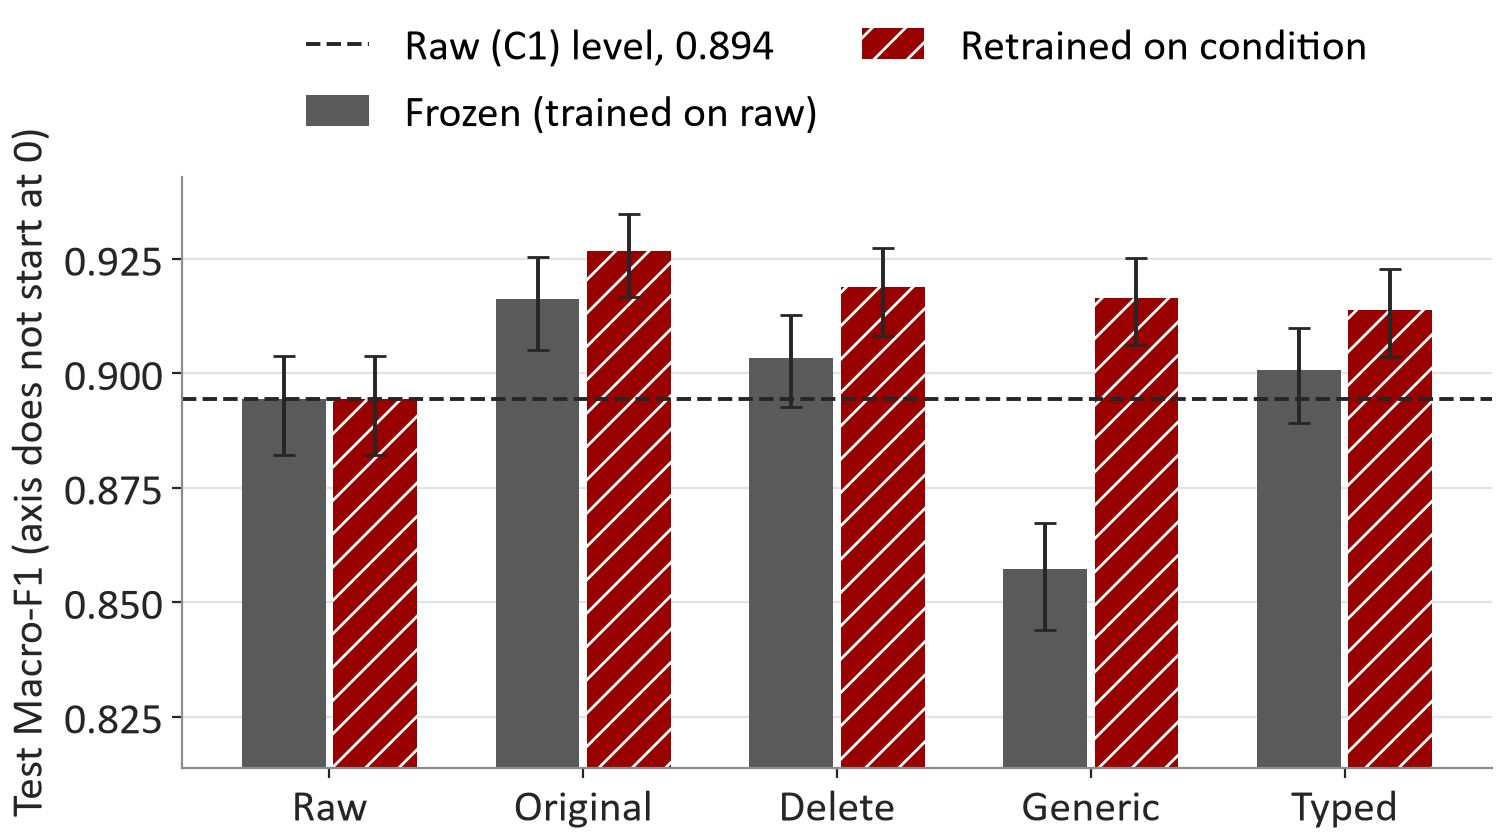
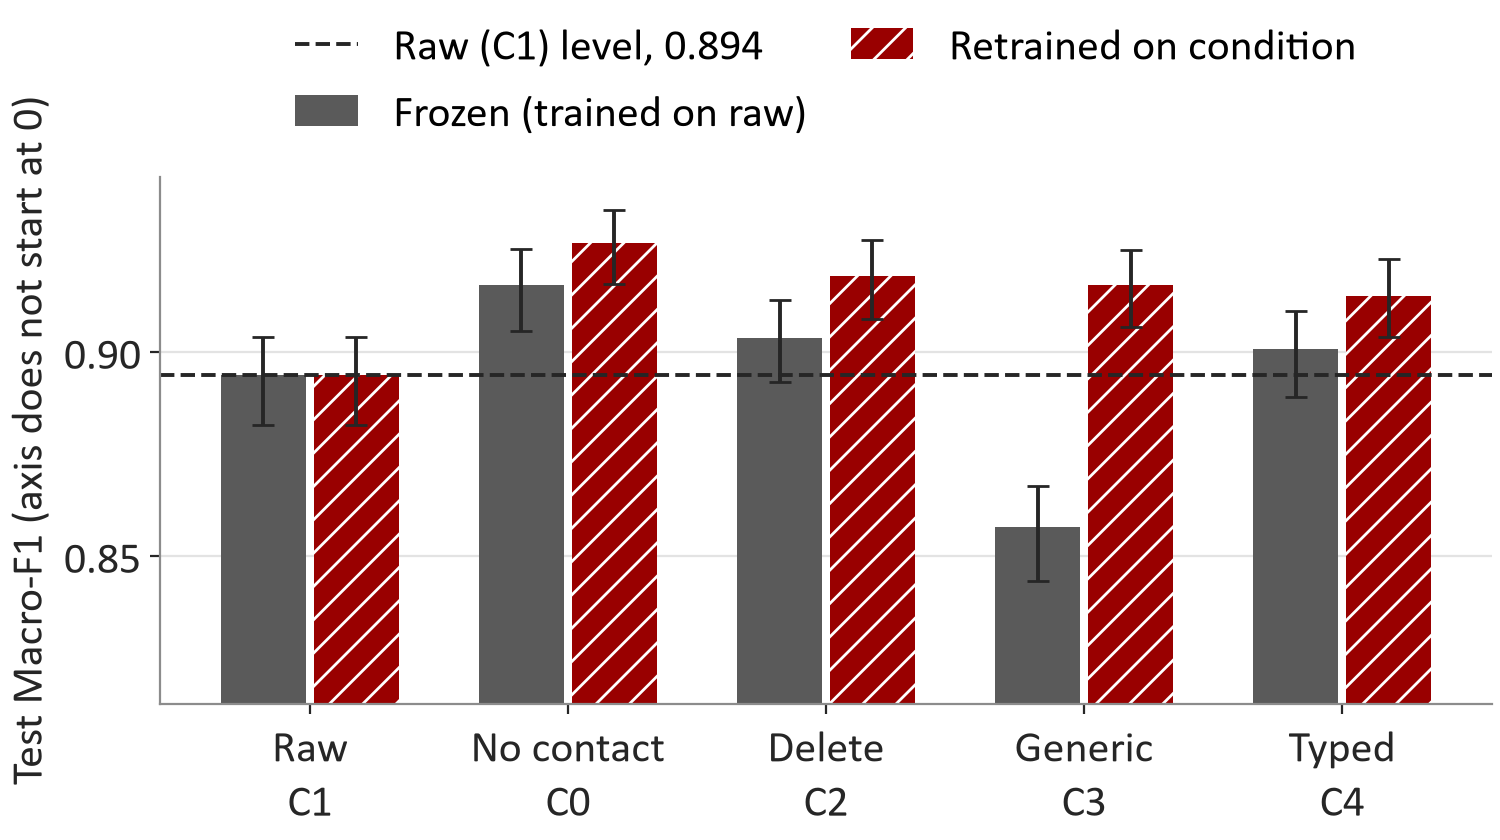
Update M3 results after final review
README reproduction steps and M2 context; evidence crosswalk formulas and fixed values; deck numbers from displayed values, per-stage wall times; Figure 5 condition labels.

diff --git a/m3/analysis/numbers.py b/m3/analysis/numbers.py
@@ -89,6 +89,9 @@ def splits_and_data():
     tl = list(csv.DictReader(open(RESULTS / "data" / "token_lengths.csv", encoding="utf-8")))
     mx = max(float(r["p99_9"]) for r in tl if r["tokenizer"] == "distilbert-base-uncased" and r["part"] == "train+val")
     put("tokens_p999_max", mx, f"{mx:.0f}", "results/m3/data/token_lengths.csv", "largest p99.9 token count over conditions")
+    over = max(int(r["over_96"]) for r in tl if r["tokenizer"] == "distilbert-base-uncased" and r["part"] == "train+val")
+    cnt("trainval_over_maxlen", over, "results/m3/data/token_lengths.csv:over_96",
+        "most train+val inputs above max_len in any one condition")
     tmax = max(int(r["max"]) for r in tl if r["tokenizer"] == "distilbert-base-uncased")
     cnt("tokens_max", tmax, "results/m3/data/token_lengths.csv", "longest input in tokens, any condition/split")
     ch = read_jsonl(DATA_M3 / "challenge_set.jsonl")
@@ -185,12 +188,19 @@ def models():
             dpp("t1_last_epoch_gain", float(curve[-1]["val_macro_f1"]) - float(curve[-2]["val_macro_f1"]),
                 f"results/m3/runs/{d.name}/train_curve.csv", "val Macro-F1 gain in the last epoch")
     for k, other in (("gap_b2_b1", "e1_b1_macro_f1"), ("gap_b2_t1", "e1_t1_macro_f1")):
-        g = N["e1_b2_macro_f1"]["value"] - N[other]["value"]
+        g = round(N["e1_b2_macro_f1"]["value"], 3) - round(N[other]["value"], 3)  # matches the 3-decimal values shown
         put(k, g, f"{abs(g) * 100:.1f} pp", f"derived: e1_b2_macro_f1 - {other}", "unsigned gap in validation Macro-F1")
     put("speedup_b1_vs_b2", N["e1_b2_ms"]["value"] / N["e1_b1_ms"]["value"],
         f"{N['e1_b2_ms']['value'] / N['e1_b1_ms']['value']:.0f}x", "derived: median ms b2 / b1")
     put("frozen_C", fz["model"].get("params", {}).get("C"), str(fz["model"].get("params", {}).get("C")), "configs/frozen_model.yaml")
     put("b1_params_C", fz["cross_check_model"]["params"]["C"], str(fz["cross_check_model"]["params"]["C"]), "configs/frozen_model.yaml")
+    walls = {}
+    for d in (RESULTS / "runs").glob("*/manifest.json"):
+        man = read_json(d)
+        st = {"e2a": "e2", "e2b": "e2", "e2c": "e4", "e2d": "e4", "e3c": "e3"}.get(man["stage"], man["stage"])
+        walls[st] = walls.get(st, 0) + man["wall_seconds"]
+    for st, w in sorted(walls.items()):
+        put(f"wall_{st}", w, f"{w / 60:.1f} min", "results/m3/runs/*/manifest.json:wall_seconds", "summed wall time per stage")
     log = list(csv.DictReader(open(RESULTS / "test_eval_log.csv", encoding="utf-8")))
     cnt("n_test_evals", sum(1 for r in log if r["run_id"] != "FROZEN_CONFIG_REGISTERED"), "results/m3/test_eval_log.csv")
     cnt("n_runs", len(list((RESULTS / "runs").glob("*/metrics.json"))), "results/m3/runs/*/metrics.json")

diff --git a/m3/analysis/figures.py b/m3/analysis/figures.py
@@ -91,7 +91,7 @@ def fig_main_results():
     allv = [float(r["macro_f1_ci_low"]) for r in rows.values() if r["protocol"] in ("frozen", "retrained")
             and r["condition"] in conds]
     ax.set_ylim(max(0, min(allv) - 0.03), min(1.0, max(float(r["macro_f1_ci_high"]) for r in rows.values()) + 0.008))
-    ax.set_xticks(x, [COND[c] for c in conds])
+    ax.set_xticks(x, ["Raw\nC1", "No contact\nC0", "Delete\nC2", "Generic\nC3", "Typed\nC4"])
     ax.set_ylabel("Test Macro-F1 (axis does not start at 0)")
     ax.legend(loc="lower center", frameon=False, ncol=2, bbox_to_anchor=(0.5, 1.0), handlelength=1.4,
               columnspacing=1.0, fontsize=16)

diff --git a/docs/M3_EVIDENCE_CROSSWALK.md b/docs/M3_EVIDENCE_CROSSWALK.md
@@ -11,28 +11,45 @@ published figures from the cited papers (see `docs/M3_REFERENCES_VERIFIED.md`).
 | 4 | Motivation | best_method = generic; retrained_C3_f1 = 0.916; retrained_C1_f1 = 0.894; V2_test_leaks = 0; n_test = 3,080 | data/m3/splits.json<br>results/m3/analysis/analysis.json<br>results/m3/analysis/main_table.csv<br>results/m3/detector/final_V2.json |
 | 6 | Gap and Differentiator | n_condition_rows_modeled = 104,576; n_runs = 18; challenge_n = 376; challenge_formats = 39; challenge_neg = 64; V1_test_leaks = 8; V2_test_leaks = 0; V1_held_recall = 89.1%; V2_held_recall = 98.1% | data/m3/challenge_set.jsonl<br>data/m3/conditions.jsonl.gz<br>results/m3/detector/final_V1.json<br>results/m3/detector/final_V2.json<br>results/m3/runs/*/metrics.json |
 | 7 | Unified Data Summary | m2_source_rows = 13,083; m2_intents = 77; faker_version = 37.12.0; m2_injection_rows = 13,083; challenge_n = 376; n_challenge_dev = 188; n_challenge_heldout = 188; b77_train_bytes = 839,073; b77_train_sha_prefix = b06e26ac6755; b77_test_bytes = 239,961; b77_test_sha_prefix = d12d6e3bc4c3 | data/evidence_summary.json<br>data/m3/challenge_set.jsonl<br>data/profile.json<br>data/source_manifest.json |
-| 8 | Data Source A: BANKING77 Metadata and Collection | hash_example_id = B77_train_00000; hash_example_text = I am still waiting on my card?; b77ex_category = card_arrival; b77ex_acquired_date = 2026-10-03; b77ex_char_count = 30 | data/banking_records.jsonl<br>recomputed |
+| 8 | Data Source A: BANKING77 Metadata and Collection | hash_example_id = B77_train_00000; hash_example_text = I am still waiting on my card?; b77ex_category = card_arrival; b77ex_acquired_date = 2026-10-03; b77ex_char_count = 30 | data/banking_records.jsonl<br>recomputed: sha256(casefold(NFC + whitespace-normalized text)) |
 | 9 | Data Source B: Faker Ledger Metadata and Collection | m2ex_record_id = B77_train_00005; m2ex_pii_type = EMAIL; m2ex_pii_value = davisstephanie@example.com; m2ex_start_char = 46; m2ex_end_char = 72; m2ex_template_id = suffix; faker_version = 37.12.0; m2_type_PERSON = 3,235; m2_type_EMAIL = 3,161; m2_type_PHONE = 3,336; m2_type_ADDRESS = 3,351 | data/evidence_summary.json<br>data/profile.json |
 | 10 | Data Source C: Challenge Set Metadata and Collection | challenge_n = 376; chex_id = CH_0106; chex_subset = challenge_dev; chex_text_short = Reply to kofi+alerts@exa...; chex_type = EMAIL; chex_start = 9; chex_end = 32; chex_value = kofi+alerts@example.net; challenge_formats = 39; challenge_neg_groups = 8; chex_format_tag = plus_email | data/m3/challenge_set.jsonl |
-| 11 | Pre-processing Plan | excluded_rows = 11; m2_eligible_train_rows = 9,992; max_len = 96; tokens_p999_max = 88; test_truncated = 0; tokens_max = 117 | data/evidence_summary.json<br>data/profile.json<br>results/m3/data/max_len.json<br>results/m3/data/token_lengths.csv |
+| 11 | Pre-processing Plan | excluded_rows = 11; m2_eligible_train_rows = 9,992; max_len = 96; tokens_p999_max = 88; test_truncated = 0; tokens_max = 117; trainval_over_maxlen = 4 | data/evidence_summary.json<br>data/profile.json<br>results/m3/data/max_len.json<br>results/m3/data/token_lengths.csv |
 | 12 | Workflow v2: Diagram | detector_variant = V2; tau = 0.64 | results/m3/analysis/risk_coverage.json<br>results/m3/detector/selection.json |
 | 13 | Workflow v2: Explanation | V2_all_leaks = 0; m2_source_rows = 13,083; rc_cov_C1 = 77.0%; e2e_median_ms = 21.2 ms | data/evidence_summary.json<br>results/m3/analysis/risk_coverage.json<br>results/m3/detector/final_V2.json<br>results/m3/latency.json |
-| 14 | Model Selection | model_name = MiniLM embeddings + logistic regression; e1_b2_macro_f1 = 0.904; e1_b2_ms = 4.1 ms; test_truncated = 0; tokens_p999_max = 88; e1_b2_params = 22.7M; speedup_b1_vs_b2 = 11x; gap_b2_b1 = 2.5 pp; gap_b2_t1 = 15.4 pp; detector_variant = V2 | configs/frozen_model.yaml<br>derived<br>results/m3/data/max_len.json<br>results/m3/data/token_lengths.csv<br>results/m3/detector/selection.json<br>results/m3/latency.json<br>results/m3/runs/e1_minilm_clf_c1_s553/metrics.json |
+| 14 | Model Selection | model_name = MiniLM embeddings + logistic regression; e1_b2_macro_f1 = 0.904; e1_b2_ms = 4.1 ms; test_truncated = 0; tokens_p999_max = 88; e1_b2_params = 22.7M; speedup_b1_vs_b2 = 11x; gap_b2_b1 = 2.5 pp; gap_b2_t1 = 15.5 pp; detector_variant = V2 | configs/frozen_model.yaml<br>derived: e1_b2_macro_f1 - e1_b1_macro_f1<br>derived: e1_b2_macro_f1 - e1_t1_macro_f1<br>derived: median ms b2 / b1<br>results/m3/data/max_len.json<br>results/m3/data/token_lengths.csv<br>results/m3/detector/selection.json<br>results/m3/latency.json<br>results/m3/runs/e1_minilm_clf_c1_s553/metrics.json |
 | 15 | Operationalization: What the Model Must Produce | tau = 0.64; rc_cov_C1 = 77.0%; rc_prec_C1 = 97.3% | results/m3/analysis/risk_coverage.json |
 | 16 | Adaptation Strategy | e1_b2_macro_f1 = 0.904; e1_t1_macro_f1 = 0.749; e1_b1_macro_f1 = 0.879; frozen_C = 10 | configs/frozen_model.yaml<br>results/m3/runs/e1_distilbert_lr2e-05_c1_s553/metrics.json<br>results/m3/runs/e1_minilm_clf_c1_s553/metrics.json<br>results/m3/runs/e1_tfidf_svm_c1_s553/metrics.json |
-| 18 | Evaluation Data Plan | n_train = 7,993; train_min_per_intent = 28; train_max_per_intent = 149; n_val = 1,999; val_min_per_intent = 7; val_max_per_intent = 38; n_test = 3,080; test_min_per_intent = 40; n_challenge_dev = 188; n_challenge_heldout = 188; share_test_PERSON = 23.6%; share_test_EMAIL = 23.9%; share_test_PHONE = 26.3%; share_test_ADDRESS = 26.2%; share_test_prefix = 48.8%; ci_halfwidth_acc = 1.1; wilson_halfwidth_90 = 10; review24_pass = 24; excluded_rows = 11; n_test_evals = 15 | data/m3/challenge_set.jsonl<br>data/m3/detector_review_24.csv<br>data/m3/splits.json<br>data/profile.json<br>m3/analysis/stats.py<br>results/m3/analysis/main_table.csv<br>results/m3/test_eval_log.csv |
-| 19 | Experimental Design | max_len = 96 | results/m3/data/max_len.json |
-| 20 | Preliminary Results: Model Selection (Exp 1) | e1_b2_macro_f1 = 0.904; gap_b2_b1 = 2.5 pp; speedup_b1_vs_b2 = 11x; n_val = 1,999; e1_b2_params = 22.7M; e1_b2_accuracy = 0.902; e1_b2_macro_precision = 0.912; e1_b2_macro_recall = 0.901; e1_b2_ms = 4.1 ms; e1_t1_params = 67.0M; e1_t1_accuracy = 0.802; e1_t1_macro_precision = 0.785; e1_t1_macro_recall = 0.761; e1_t1_macro_f1 = 0.749; e1_t1_ms = 7.7 ms; e1_b1_params = 4.1M; e1_b1_accuracy = 0.879; e1_b1_macro_precision = 0.884; e1_b1_macro_recall = 0.877; e1_b1_macro_f1 = 0.879; e1_b1_ms = 0.37 ms; t1_last_epoch_gain = +3.2 pp | data/m3/splits.json<br>derived<br>results/m3/latency.json<br>results/m3/runs/e1_distilbert_lr2e-05_c1_s553/metrics.json<br>results/m3/runs/e1_distilbert_lr2e-05_c1_s553/train_curve.csv<br>results/m3/runs/e1_minilm_clf_c1_s553/metrics.json<br>results/m3/runs/e1_tfidf_svm_c1_s553/metrics.json |
+| 18 | Evaluation Data Plan | n_train = 7,993; train_min_per_intent = 28; train_max_per_intent = 149; n_val = 1,999; val_min_per_intent = 7; val_max_per_intent = 38; n_test = 3,080; test_min_per_intent = 40; n_challenge_dev = 188; n_challenge_heldout = 188; share_test_PERSON = 23.6%; share_test_EMAIL = 23.9%; share_test_PHONE = 26.3%; share_test_ADDRESS = 26.2%; share_test_prefix = 48.8%; ci_halfwidth_acc = 1.1; wilson_halfwidth_90 = 10; review24_pass = 24; excluded_rows = 11; n_test_evals = 15 | data/m3/challenge_set.jsonl<br>data/m3/detector_review_24.csv<br>data/m3/splits.json<br>data/profile.json<br>m3/analysis/stats.py:wilson(36, 40)<br>results/m3/analysis/main_table.csv<br>results/m3/test_eval_log.csv |
+| 19 | Experimental Design | n_runs = 18; wall_e1 = 5.1 min; wall_e2 = 1.3 min; wall_e3 = 0.1 min; wall_e4 = 0.6 min; max_len = 96 | results/m3/data/max_len.json<br>results/m3/runs/*/manifest.json<br>results/m3/runs/*/metrics.json |
+| 20 | Preliminary Results: Model Selection (Exp 1) | e1_b2_macro_f1 = 0.904; gap_b2_b1 = 2.5 pp; speedup_b1_vs_b2 = 11x; n_val = 1,999; e1_b2_params = 22.7M; e1_b2_accuracy = 0.902; e1_b2_macro_precision = 0.912; e1_b2_macro_recall = 0.901; e1_b2_ms = 4.1 ms; e1_t1_params = 67.0M; e1_t1_accuracy = 0.802; e1_t1_macro_precision = 0.785; e1_t1_macro_recall = 0.761; e1_t1_macro_f1 = 0.749; e1_t1_ms = 7.7 ms; e1_b1_params = 4.1M; e1_b1_accuracy = 0.879; e1_b1_macro_precision = 0.884; e1_b1_macro_recall = 0.877; e1_b1_macro_f1 = 0.879; e1_b1_ms = 0.37 ms; t1_last_epoch_gain = +3.2 pp | data/m3/splits.json<br>derived: e1_b2_macro_f1 - e1_b1_macro_f1<br>derived: median ms b2 / b1<br>results/m3/latency.json<br>results/m3/runs/e1_distilbert_lr2e-05_c1_s553/metrics.json<br>results/m3/runs/e1_distilbert_lr2e-05_c1_s553/train_curve.csv<br>results/m3/runs/e1_minilm_clf_c1_s553/metrics.json<br>results/m3/runs/e1_tfidf_svm_c1_s553/metrics.json |
 | 21 | Preliminary Results: Sanitization Methods (Exp 2) | frozen_C3_d = -3.7 pp; frozen_C2_d = +0.9 pp; frozen_C2_d_ci = +0.1 to +1.7; retrained_C2_d = +2.4 pp; retrained_C2_d_ci = +1.7 to +3.2; frozen_C3_d_ci = -4.8 to -2.7; retrained_C3_d = +2.2 pp; retrained_C3_d_ci = +1.5 to +3.0; frozen_C4_d = +0.6 pp; frozen_C4_d_ci = -0.1 to +1.5; retrained_C4_d = +1.9 pp; retrained_C4_d_ci = +1.3 to +2.7; thr_T3 = PASS; thr_T2 = PASS; frozen_C3_p = < 0.001; frozen_C4_p = 0.15 | derived from deck_numbers + results/m3/preregistration.md<br>results/m3/analysis/main_table.csv |
-| 22 | Preliminary Results: Detector and Ablations (Exp 3-4) | V2_test_leaks = 0; retrained_detector_cost = -1.3 pp; retrained_C0_d = +3.2 pp; n_test = 3,080; detector_variant = V2; V1_test_recall = 99.7%; V2_test_recall = 100.0%; V1_test_full = 99.2%; V2_test_full = 99.7%; V1_test_leaks = 8; V1_test_leak_rate = 0.26%; V2_test_leak_rate = 0.00%; V1_test_partial = 3; V2_test_partial = 0; V1_test_over = 3.0%; V2_test_over = 2.9%; V1_held_recall = 89.1%; V2_held_recall = 98.1%; V1_all_median_ms = 5.8 ms; V2_all_median_ms = 17.5 ms; person_missed = 44; person_missed_left = 32; person_missed_other_type = 12; person_partial_90 = 90; V2_held_neg_fp = 21.9%; frozen_detector_cost = -1.1 pp; place_gap_frozen = -1.1 pp | data/m3/splits.json<br>derived<br>results/m3/analysis/main_table.csv<br>results/m3/detector/final_V1.json<br>results/m3/detector/final_V2.json<br>results/m3/detector/m2_reproduction.json<br>results/m3/detector/person_44_breakdown.csv<br>results/m3/detector/selection.json |
+| 22 | Preliminary Results: Detector and Ablations (Exp 3-4) | V2_test_leaks = 0; retrained_detector_cost = -1.3 pp; retrained_C0_d = +3.2 pp; n_test = 3,080; detector_variant = V2; V1_test_recall = 99.7%; V2_test_recall = 100.0%; V1_test_full = 99.2%; V2_test_full = 99.7%; V1_test_leaks = 8; V1_test_leak_rate = 0.26%; V2_test_leak_rate = 0.00%; V1_test_partial = 3; V2_test_partial = 0; V1_test_over = 3.0%; V2_test_over = 2.9%; V1_held_recall = 89.1%; V2_held_recall = 98.1%; V1_all_median_ms = 5.8 ms; V2_all_median_ms = 17.5 ms; person_missed = 44; person_missed_left = 32; person_missed_other_type = 12; person_partial_90 = 90; V2_held_neg_fp = 21.9%; frozen_detector_cost = -1.1 pp; place_gap_frozen = -1.1 pp | data/m3/splits.json<br>derived: Macro-F1 D_k - C_k (frozen)<br>derived: Macro-F1 D_k - C_k (retrained)<br>derived: accuracy prefix - suffix on C1<br>results/m3/analysis/main_table.csv<br>results/m3/detector/final_V1.json<br>results/m3/detector/final_V2.json<br>results/m3/detector/m2_reproduction.json<br>results/m3/detector/person_44_breakdown.csv<br>results/m3/detector/selection.json |
 | 23 | Error Analysis and Failure Modes | ep1_count = 69; ep1_pop = 326; ep1_share = 21.2%; ep2_count = 53; ep2_pop = 326; ep2_share = 16.3%; small_worst_intent = card acceptance; small_worst_recall = 77.5%; ep4_count = 202; ep4_pop = 214; ep4_share = 94.4%; ep3_count = 12; ep3_pop = 214; ep3_share = 5.6%; ep7_count = 41; ep7_pop = 91; ep7_share = 45.1% | results/m3/analysis/error_patterns.csv<br>results/m3/analysis/small_intents.csv |
 | 24 | Operational Constraints and Monitoring Plan | e2e_records_per_hour = 160,929; detector_variant = V2; det_median_ms_lat = 16.9 ms; det_p95_ms_lat = 24.1 ms; det_records_per_hour = 208,964; cls_median_ms_lat = 4.1 ms; cls_p95_ms_lat = 6.2 ms; cls_records_per_hour_b64 = 1,275,977; e2e_median_ms = 21.2 ms; e2e_p95_ms = 30.2 ms; cpu_name = 13th Gen Intel(R) Core(TM) i7-13700KF; tau = 0.64; rc_queue_C1 = 23.0% | results/m3/analysis/risk_coverage.json<br>results/m3/detector/selection.json<br>results/m3/latency.json |
-| 25 | Business Value Proposition | best_method = generic; e2e_records_per_hour = 160,929; hours_per_million = 6.2; mis_retrained_C1 = 106; mis_retrained_C3 = 83; mis_retrained_D3 = 96; leaks10k_V1 = 26; detector_variant = V2; leaks10k_V2 = 0; over1k_V2 = 29.5 | results/m3/analysis/analysis.json<br>results/m3/analysis/business.json<br>results/m3/detector/selection.json<br>results/m3/latency.json |
+| 25 | Business Value Proposition | best_method = generic; e2e_records_per_hour = 160,929; hours_per_million = 6.2; mis_retrained_D3 = 96; mis_retrained_C1 = 106; mis_retrained_C3 = 83; leaks10k_V1 = 26; detector_variant = V2; leaks10k_V2 = 0; over1k_V2 = 29.5 | results/m3/analysis/analysis.json<br>results/m3/analysis/business.json<br>results/m3/detector/selection.json<br>results/m3/latency.json |
 | 26 | Limitations and Risks | retrained_C0_d = +3.2 pp; V1_held_recall_ADDRESS = 77.3%; V2_held_recall_ADDRESS = 97.7%; V2_held_recall_PERSON = 95.8%; e1_t1_macro_f1 = 0.749 | results/m3/analysis/main_table.csv<br>results/m3/detector/final_V1.json<br>results/m3/detector/final_V2.json<br>results/m3/runs/e1_distilbert_lr2e-05_c1_s553/metrics.json |
-| 28 | Key Takeaways | n_runs = 18; challenge_n = 376; best_method = generic; retrained_C3_f1 = 0.916; retrained_C1_f1 = 0.894; V2_test_leaks = 0; frozen_C3_d = -3.7 pp; thr_T1 = PASS; thr_T2 = PASS; thr_T3 = PASS; thr_T4 = PASS; thr_T5 = PASS; thr_T6 = PASS; thr_T7 = PASS | data/m3/challenge_set.jsonl<br>derived from deck_numbers + results/m3/preregistration.md<br>results/m3/analysis/analysis.json<br>results/m3/analysis/main_table.csv<br>results/m3/detector/final_V2.json<br>results/m3/runs/*/metrics.json |
+| 28 | Key Takeaways | n_runs = 18; challenge_n = 376; best_method = generic; retrained_C3_f1 = 0.916; retrained_C1_f1 = 0.894; V2_test_leaks = 0; frozen_C3_d = -3.7 pp; thr_T1 = PASS; thr_T2 = PASS; thr_T3 = PASS; thr_T4 = PASS; thr_T5 = PASS; thr_T6 = PASS; thr_T7 = PASS; retrained_C3_d = +2.2 pp | data/m3/challenge_set.jsonl<br>derived from deck_numbers + results/m3/preregistration.md<br>results/m3/analysis/analysis.json<br>results/m3/analysis/main_table.csv<br>results/m3/detector/final_V2.json<br>results/m3/runs/*/metrics.json |
 | R1 | References | faker_version = 37.12.0 | data/profile.json |
 | A1 | Appendix A1: Response to M1 and M2 Feedback | person_missed = 44; person_missed_left = 32; person_missed_other_type = 12 | results/m3/detector/person_44_breakdown.csv |
 | A2 | Appendix A2: Full Run Table and Training Curve | n_runs = 18; seed_sd_C1 = 0.000 | results/m3/analysis/analysis.json<br>results/m3/runs/*/metrics.json |
 | A3 | Appendix A3: Per-Intent Results for Small Classes | terc_range_low = 28-91; terc_frozen_C1_low = 90.4%; terc_frozen_C1_mid = 89.9%; terc_frozen_C1_high = 87.9% | results/m3/analysis/terciles.csv |
 | A4 | Appendix A4: Reproducibility | cpu_name = 13th Gen Intel(R) Core(TM) i7-13700KF | results/m3/latency.json |
 | A5 | Appendix A5: Detector Details | V0_sel_leaks = 956; V0_sel_over = 3.2%; V0_dev_recall = 87.2%; V1_sel_leaks = 24; V1_sel_over = 3.2%; V1_dev_recall = 89.1%; V2_sel_leaks = 0; V2_sel_over = 3.1%; V2_dev_recall = 99.4%; V3_sel_leaks = 0; V3_sel_over = 3.3%; V3_dev_recall = 93.0% | results/m3/detector/V0.json<br>results/m3/detector/V1.json<br>results/m3/detector/V2.json<br>results/m3/detector/V3.json |
+
+## Fixed design values shown on slides (not computed results)
+
+| Value | Where it is set |
+|---|---|
+| Seeds 553, 554, 555; 80/20 split | `m3/common.py`, `m3/data/splits.py`, `m3/experiments.yaml` |
+| Thresholds T1-T7 (0.90, 1.0 pp, 2.0 pp, 0.25%, 90%, 5%, 100 ms) | `results/m3/preregistration.md` |
+| Detector selection limits (1.0 pp over-redaction margin, 150 ms) | `results/m3/detector/selection_rule.md` |
+| 98% precision target for tau | `m3/analysis/risk.py` (TARGET) |
+| 500 records, 3 warm-up calls for latency | `m3/latency.py` (N, WARMUP) |
+| 8 items per challenge format group, 8 name origins, 4 PII definitions | `m3/detector/challenge_set.py`, `data/m3/challenge_set_RUBRIC.md` |
+| 40 challenge items reviewed; 24 detector samples | `data/m3/challenge_set_review.md`, `data/m3/detector_review_24.csv` |
+| Grids: SVM C 0.1-10, n-grams, min_df, class weight; head C 1, 10, 100 or MLP alpha | `m3/models/classifiers.py` (GRID) |
+| Run counts per stage (3, 1 + 4, 1, 4 + 5 = 18) | `m3/experiments.yaml`, `results/m3/runs/` |
+| DistilBERT lr, batch, epochs, weight decay, warmup; max_len | `m3/experiments.yaml`, `results/m3/data/max_len.json` |
+| Published BANKING77 accuracies 93.66% / 87.19% | [8] Table 3, see `docs/M3_REFERENCES_VERIFIED.md` |
+| Google SDP US$3.00 per GiB, 1 GiB free tier | [3], see `docs/M3_REFERENCES_VERIFIED.md` |

diff --git a/README.md b/README.md
@@ -54,14 +54,29 @@ Environment: Python 3.12 for modeling (`requirements-m3.txt`; PyTorch CPU build 
 an AMD Radeon RX 7900 XTX for training) and the detector environments in `requirements-presidio-m3.txt`.
 Device choice and timings are in `results/m3/env/`.
 
-Reproduce (from the repository root, in the matching environment):
+Reproduce (from the repository root; detector steps in the detector environment, the rest in `.venv-m3`):
 
 ```bash
-python -m m3.data.splits
-python -m m3.detector.run_detector --all          # add --engine trf for the selected detector
-python -m m3.data.build_conditions
-python -m m3.run_experiments --all
-python -m m3.analysis.numbers                     # after evaluate, risk, error_analysis, business, figures
+python -m m3.data.splits                              # train/validation split
+python -m m3.detector.challenge_set                   # non-Faker challenge set
+python -m m3.detector.run_detector --all              # Presidio lg (V0, V1)
+python -m m3.detector.run_detector --all --engine trf # Presidio trf (V2)
+python -m m3.detector.hf_ner                          # NER add-on (V3)
+python -m m3.detector.evaluate --final V2             # variant metrics, selection inputs, final scores
+python -m m3.data.build_conditions                    # eight text conditions
+python -m m3.data.token_lengths
+python -m m3.data.review_gate
+python -m m3.run_experiments --stage e1               # model comparison
+python -m m3.latency --part classifiers               # CPU latency (also --part detector, --part combine)
+python -m m3.models.select                            # pre-registered selection, frozen config
+python -m m3.run_experiments --all                    # all frozen-model experiments
+python -m m3.analysis.evaluate
+python -m m3.analysis.risk
+python -m m3.analysis.error_analysis
+python -m m3.analysis.business
+python -m m3.analysis.figures
+python -m m3.analysis.example_record
+python -m m3.analysis.numbers                         # results/m3/deck_numbers.json
 python -m pytest m3/tests -q
 ```
 
@@ -73,6 +88,11 @@ Where results live:
   frozen configuration and every test-set evaluation.
 - `results/m3/analysis/`, `results/m3/figures/`, `results/m3/latency.json` — tables, findings, figures, timings.
 - `results/m3/preregistration.md` — research questions and thresholds fixed before testing.
+
+All M3 work is on branch `m3`. Older material from M2 is kept unchanged: `evidence/` holds the M2 Presidio
+pilot (the final configuration is the `*_v2` files and `address_recognizer.py`), `docs/EVIDENCE_AUDIT.md`
+and `docs/PRESENTATION_EVIDENCE_CROSSWALK.md` describe the M2 deck, and
+`.github/workflows/build-evidence-data.yml` rebuilds the M2 data snapshot when the M2 scripts change.
 
 `docs/M3_EVIDENCE_CROSSWALK.md` maps each slide of the M3 deck to the files behind its numbers, and
 `docs/M3_REFERENCES_VERIFIED.md` records how each cited source was checked.
